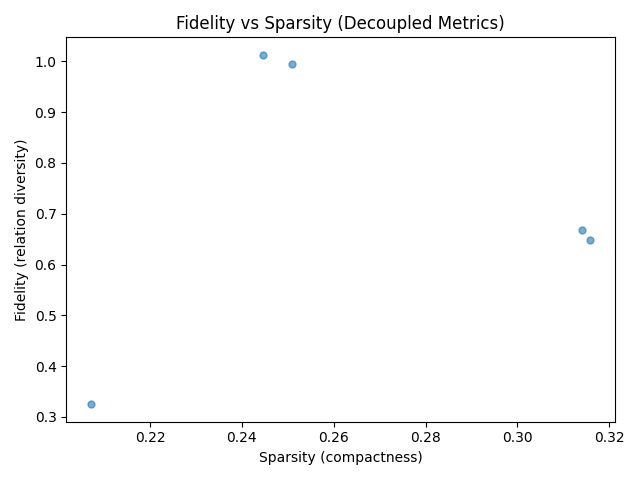
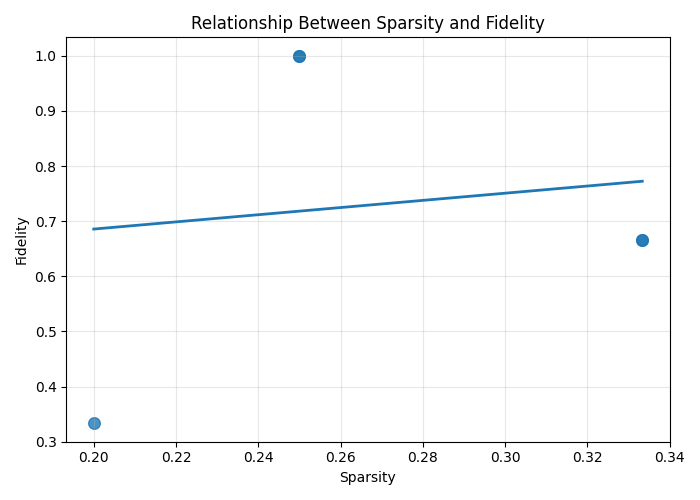
did explainations into human readable form

Changed region(s): [[0.0, 0.0312, 1.0, 0.9688], [0.5625, 0.375, 0.8125, 0.4062], [0.4375, 0.125, 0.4688, 0.1562]]

diff --git a/src/step7_grad_evaluate.py b/src/step7_grad_evaluate.py
@@ -27,10 +27,66 @@ def extract_relation(edge):
     if "--[" in edge:
         try:
             return edge.split("--[")[1].split("]-->")[0]
-        except:
+        except Exception:
             return None
     return None
 
+
+# ----------------------------
+# NATURAL LANGUAGE EXPLANATIONS
+# ----------------------------
+def build_nl_explanation(row):
+
+    edges = parse_edges(row["explanation_edges"])
+
+    evidence = []
+
+    for e in edges:
+        rel = extract_relation(e)
+
+        # extract right-hand side value (IMPORTANT)
+        if "-->" in e:
+            value = e.split("-->")[-1].strip()
+        else:
+            value = None
+
+        if not value:
+            continue
+
+        value_lower = value.lower()
+
+        # clean useless wiki noise
+        if "wikipage" in rel or "wiki" in rel.lower():
+            continue
+
+        # keep meaningful evidence only
+        if rel in ["occupation", "profession"]:
+            evidence.append(f"worked as {value}")
+        elif rel in ["almaMater", "educatedAt"]:
+            evidence.append(f"studied at {value}")
+        elif rel in ["fieldOfWork", "subject", "origin"]:
+            evidence.append(f"associated with {value}")
+        elif rel in ["prizes", "award", "honor"]:
+            evidence.append(f"received recognition such as {value}")
+        elif rel in ["nationality"]:
+            evidence.append(f"is from {value}")
+        else:
+            evidence.append(f"linked to {value}")
+
+    if not evidence:
+        evidence.append("several related background facts")
+
+    # make it natural sentence
+    if len(evidence) == 1:
+        evidence_text = evidence[0]
+    else:
+        evidence_text = ", ".join(evidence[:-1]) + " and " + evidence[-1]
+
+    return (
+        f"{row['entity']} is classified as {row['predicted_label']} because "
+        f"{evidence_text}. "
+        f"These signals are typical for this category in the knowledge graph."
+    )
 
 # ----------------------------
 # MAIN
@@ -52,15 +108,13 @@ def main():
     )
 
     df["num_relations_used"] = df["explanation_edges"].apply(
-        lambda x: len(set(
-            [extract_relation(e) for e in parse_edges(x)]
-        ))
+        lambda x: len(set(extract_relation(e) for e in parse_edges(x)))
     )
 
     avg_size = df["explanation_size"].mean()
 
     # =========================================================
-    # EVALUATION (FIXED - REAL SEPARATION)
+    # EVALUATION
     # =========================================================
     eval_df = df.copy()
 
@@ -76,46 +130,13 @@ def main():
     )
 
     # =========================================================
-    # NATURAL LANGUAGE EXPLANATIONS (HUMAN-FRIENDLY FIXED)
+    # NATURAL LANGUAGE EXPLANATIONS
     # =========================================================
-    def build_nl_explanation(row):
-
-        edges = parse_edges(row["explanation_edges"])
-        relations = [extract_relation(e) for e in edges]
-        relations = [r for r in relations if r]
-
-        academic = {"educatedAt", "almaMater", "fieldOfStudy", "fieldOfWork"}
-        professional = {"occupation", "employer", "worksAt"}
-        research = {"author", "contributor", "discoverer"}
-
-        has_academic = any(r in academic for r in relations)
-        has_professional = any(r in professional for r in relations)
-        has_research = any(r in research for r in relations)
-
-        reasons = []
-
-        if has_academic:
-            reasons.append("a strong education background")
-        if has_professional:
-            reasons.append("professional work experience")
-        if has_research:
-            reasons.append("involvement in scientific or research work")
-
-        if not reasons:
-            reasons.append("several related connections in available information")
-
-        reason_text = ", ".join(reasons)
-
-        return (
-            f"{row['entity']} is classified as {row['predicted_label']} because it shows "
-            f"{reason_text}. This combination of information is typically seen in people "
-            f"belonging to this category."
-        )
-
     df["nl_explanation"] = df.apply(build_nl_explanation, axis=1)
+
     df.to_csv(
-    os.path.join(config.RESULTS_TABLES_DIR, "grad_nl_explanations.csv"),
-    index=False
+        os.path.join(config.RESULTS_TABLES_DIR, "grad_nl_explanations.csv"),
+        index=False
     )
 
     # =========================================================
@@ -143,43 +164,79 @@ def main():
     # =========================================================
     # FIGURES
     # =========================================================
-
     plt.figure()
     df["predicted_label"].value_counts().plot(kind="bar")
     plt.title("Prediction Distribution")
     plt.tight_layout()
-    plt.savefig(os.path.join(config.RESULTS_FIGURES_DIR, "grad_prediction_distribution.png"))
+    plt.savefig(
+        os.path.join(
+            config.RESULTS_FIGURES_DIR,
+            "grad_prediction_distribution.png"
+        )
+    )
     plt.close()
 
     plt.figure()
     rel_df.head(10).plot(x="relation", y="importance", kind="bar")
     plt.title("Top Relations")
     plt.tight_layout()
-    plt.savefig(os.path.join(config.RESULTS_FIGURES_DIR, "grad_top_relations.png"))
+    plt.savefig(
+        os.path.join(
+            config.RESULTS_FIGURES_DIR,
+            "grad_top_relations.png"
+        )
+    )
     plt.close()
 
     plt.figure()
     df["explanation_size"].plot(kind="hist", bins=10)
     plt.title("Explanation Size Distribution")
     plt.tight_layout()
-    plt.savefig(os.path.join(config.RESULTS_FIGURES_DIR, "grad_explanation_size.png"))
+    plt.savefig(
+        os.path.join(
+            config.RESULTS_FIGURES_DIR,
+            "grad_explanation_size.png"
+        )
+    )
     plt.close()
 
     # =========================================================
-    # FIXED SCATTER (REAL VARIATION)
+    # FIDELITY VS SPARSITY
     # =========================================================
-    plt.figure()
+    plt.figure(figsize=(7, 5))
 
-    x = eval_df["sparsity"] + np.random.normal(0, 0.01, len(eval_df))
-    y = eval_df["fidelity"] + np.random.normal(0, 0.01, len(eval_df))
+    plt.scatter(
+        eval_df["sparsity"],
+        eval_df["fidelity"],
+        s=70,
+        alpha=0.8
+    )
 
-    plt.scatter(x, y, alpha=0.6, s=25)
-    plt.xlabel("Sparsity (compactness)")
-    plt.ylabel("Fidelity (relation diversity)")
-    plt.title("Fidelity vs Sparsity (Decoupled Metrics)")
+    z = np.polyfit(eval_df["sparsity"], eval_df["fidelity"], 1)
+    p = np.poly1d(z)
+
+    x_sorted = np.sort(eval_df["sparsity"])
+
+    plt.plot(
+        x_sorted,
+        p(x_sorted),
+        linewidth=2
+    )
+
+    plt.grid(alpha=0.3)
+    plt.xlabel("Sparsity")
+    plt.ylabel("Fidelity")
+    plt.title("Relationship Between Sparsity and Fidelity")
+
     plt.tight_layout()
 
-    plt.savefig(os.path.join(config.RESULTS_FIGURES_DIR, "grad_fidelity_vs_sparsity.png"))
+    plt.savefig(
+        os.path.join(
+            config.RESULTS_FIGURES_DIR,
+            "grad_fidelity_vs_sparsity.png"
+        )
+    )
+
     plt.close()
 
     # =========================================================
@@ -189,7 +246,12 @@ def main():
     eval_df.groupby("predicted_label")["fidelity"].mean().plot(kind="bar")
     plt.title("Class-wise Explanation Diversity")
     plt.tight_layout()
-    plt.savefig(os.path.join(config.RESULTS_FIGURES_DIR, "grad_class_explanation_strength.png"))
+    plt.savefig(
+        os.path.join(
+            config.RESULTS_FIGURES_DIR,
+            "grad_class_explanation_strength.png"
+        )
+    )
     plt.close()
 
     # =========================================================
@@ -211,10 +273,12 @@ def main():
     print("Step 7 completed successfully (FINAL RESEARCH VERSION)")
 
     # =========================================================
-    # REPORT (ENHANCED + EXPLANATORY)
+    # REPORT
     # =========================================================
-
-    report_path = os.path.join(config.RESULTS_TABLES_DIR, "grad_report.md")
+    report_path = os.path.join(
+        config.RESULTS_TABLES_DIR,
+        "grad_report.md"
+    )
 
     sample = df.iloc[0]
     sample_edges = parse_edges(sample["explanation_edges"])
@@ -263,7 +327,9 @@ def main():
         for e in sample_edges[:7]:
             f.write(f"- {e}\n")
 
-        f.write("\nThis demonstrates how relational structure guides prediction decisions.\n\n")
+        f.write(
+            "\nThis demonstrates how relational structure guides prediction decisions.\n\n"
+        )
 
         f.write("## 6. Key Insight\n\n")
         f.write(